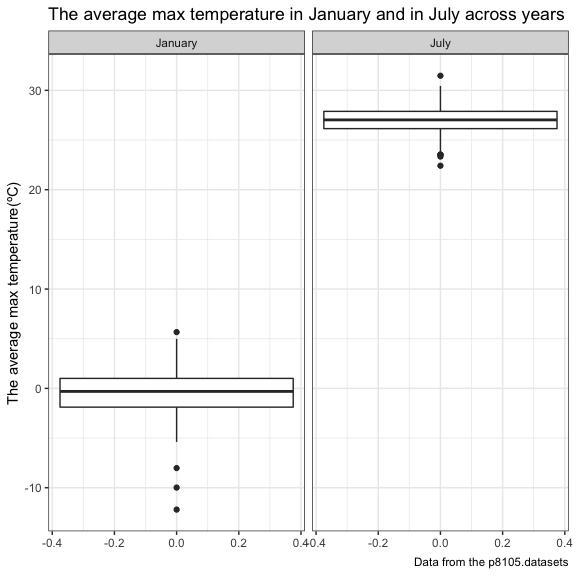
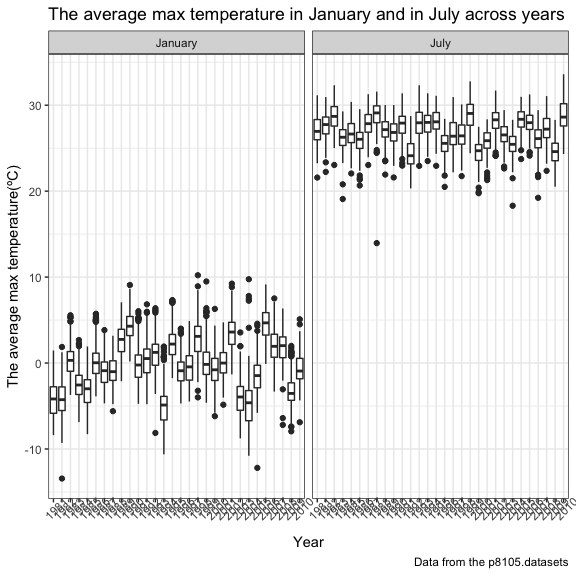
some changes of plots

diff --git a/p8105_hw3_sl4471.md b/p8105_hw3_sl4471.md
@@ -459,21 +459,23 @@ ny_noaa_meantmax =
   select(id, year, month, tmax) %>% 
   filter(month %in% c("01", "07")) %>% 
   mutate(month = recode(month, `01` = "January", `07` = "July")) %>% 
-  group_by(id, month) %>% 
+  group_by(id, year, month) %>% 
   summarize(tmax_mean = mean(tmax, na.rm = TRUE))
 
-ggplot(ny_noaa_meantmax, aes(y = tmax_mean)) +
+ggplot(ny_noaa_meantmax, aes(x = year, y = tmax_mean)) +
   geom_boxplot() +
   facet_grid(~month) +
   labs(
     title = "The average max temperature in January and in July across years",
+    x = "Year", 
     y = "The average max temperature(ºC)",
     caption = "Data from the p8105.datasets"
   ) +
-    theme_bw()
+  theme_bw() +
+  theme(axis.text.x = element_text(angle = 45))
 ```
 
-    ## Warning: Removed 876 rows containing non-finite values (stat_boxplot).
+    ## Warning: Removed 5970 rows containing non-finite values (stat_boxplot).
 
 <img src="p8105_hw3_sl4471_files/figure-markdown_github/average_max_temperature-1.png" width="90%" />
 
@@ -487,16 +489,17 @@ ny_noaa_meantmax %>%
 ```
 
     ## $stats
-    ## [1] -5.3903226 -1.8875793 -0.3038384  1.0051869  4.9876712
+    ## [1] -9.9806452 -2.7451613 -0.2016129  2.1209677  9.2366667
     ## 
     ## $n
-    ## [1] 231
+    ## [1] 4080
     ## 
     ## $conf
-    ## [1] -0.604559857 -0.003116911
+    ## [1] -0.32198079 -0.08124502
     ## 
     ## $out
-    ## [1]  -9.983721  -8.021429   5.666129 -12.200000
+    ##  [1] -13.438710  10.215385 -10.622581 -12.200000 -10.787097   9.490476
+    ##  [7]   9.750000 -10.180645 -10.412903 -10.392857
 
 ``` r
 ny_noaa_meantmax %>%
@@ -506,20 +509,22 @@ ny_noaa_meantmax %>%
 ```
 
     ## $stats
-    ## [1] 23.78791 26.14649 27.02672 27.88443 30.44452
+    ## [1] 21.48667 25.59333 27.00645 28.36774 32.51765
     ## 
     ## $n
-    ## [1] 229
+    ## [1] 4061
     ## 
     ## $conf
-    ## [1] 26.84526 27.20818
+    ## [1] 26.93766 27.07524
     ## 
     ## $out
-    ## [1] 23.51538 23.51621 23.33546 31.47204 22.41384 23.53814
+    ##  [1] 21.31290 20.80968 21.41290 21.30645 21.42903 21.32581 18.30000
+    ##  [8] 20.65714 21.04194 21.26774 21.31613 33.60000 21.32581 20.51290
+    ## [15] 20.72414 20.80645 21.06129 21.09677 19.75806 20.79032 20.40968
+    ## [22] 20.49677 20.40357 21.29032 20.71613 20.31613 19.87742 20.89677
+    ## [29] 19.08387 32.66452 13.95161 20.93571 32.77097 19.22258 32.57419
 
 From the plot, we can compare the average of max temperature on January with that on July across years. We the tell the basic descripttive data of each including range, Q1, median, Q3.
-
-The outliers of January are -9.983721, -8.021429, 5.666129 and -12.200000ºC. The outliers of July are 23.51538, 23.51621, 23.33546, 31.47204, 22.41384, 23.53814ºC.
 
 ### 3.3.2
 
@@ -540,15 +545,18 @@ tmax_tmin =
 distribution_snow =
   ny_noaa_tidy %>% 
   filter(snow > 0, snow < 100) %>% 
-  ggplot(aes(x = year, y = snow)) + 
-  geom_boxplot() +
+  ggplot(aes(x = snow, fill = year)) + 
+  geom_density() +
   labs(
     title = "The distribution of snowfall values greater than 0 and less than 100",
-    x = "Year",
-    y = "Snowfall value",
+    x = "Snowfall value",
+    y = "Density",
     caption = "Data from the p8105.datasets"
   ) +
   theme_bw() +
+  theme(legend.position = "bottom") +
+  viridis::scale_color_viridis(
+    name = "year") +
   theme(axis.text.x = element_text(angle = 45))
 
 (tmax_tmin)/(distribution_snow)
